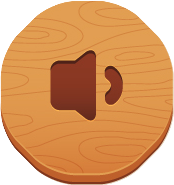
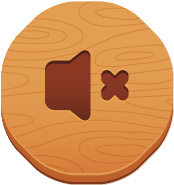
update

diff --git a/dd.py b/dd.py
@@ -184,6 +184,7 @@ sizebk=(7000*unitx,y)
 speedbk=4*unitx
 k=0
 sound_pause=False
+last_state=False
 
 #floor variables
 l=0
@@ -670,7 +671,7 @@ while(True):
     
     dt=clock.tick(60)
     mouse = pygame.mouse.get_pos() 
-    testtext=font1.render(f"curemo {current_emotion} ch{changeLevel}  cor{correction_delay} border {border} maplr{backgrounds[k].rect.left} mapre{backgrounds[k].rect.right} pla{player.playerrect.left} bad{bademotion}",False,"Black")
+    testtext=font1.render(f"curemo {current_emotion} ch{changeLevel} sounpa {sound_pause} clicked allowed {click_allowed} cor{correction_delay} border {border} maplr{backgrounds[k].rect.left} mapre{backgrounds[k].rect.right} pla{player.playerrect.left} bad{bademotion}",False,"Black")
     kpressed=pygame.key.get_pressed()
     
     for event in pygame.event.get():
@@ -740,11 +741,10 @@ while(True):
                 level_scrn=False
                 start_scrn=True
     if event.type == pygame.MOUSEBUTTONUP:
-        click_allowed = True
+        click_allowed=True
     if(player.playerrect.bottom<ground):onground=False
     if((enemy1.enemyrect.colliderect(player.playerrect) or enemy2.enemyrect.colliderect(player.playerrect) or enemy3.enemyrect.colliderect(player.playerrect)) and not immortal and not playerattack and not enemyattack):
         if(not question_scrn):
-            #question_num= random.randint(0,14)
             correction_delay=0
             if level=="easy":
                 questions=load_questions("Assets\Questions\easy.txt")
@@ -949,12 +949,15 @@ while(True):
         enemy3.enemyrect.left=x+800*unitx
         changeLevel=0
         k=0
-    if sound_paused.handle_event(event,mouse)=="sound_paused":
+    if sound_paused.handle_event(event,mouse)=="sound_paused"  and click_allowed:
         sound_pause=True
-        pygame.mixer.pause()
-    if sound_unpaused.handle_event(event,mouse)=="sound_unpaused":
+        click_allowed=False
+    if sound_unpaused.handle_event(event,mouse)=="sound_unpaused" and click_allowed:
         sound_pause=False
-        pygame.mixer.unpause()
-    
+        click_allowed=False
+    if sound_pause:pygame.mixer.pause()
+    elif not sound_pause:pygame.mixer.unpause()
+    last_state=sound_pause
+    screen.blit(testtext,(10*unitx,10*unity))   
 
     pygame.display.update()
